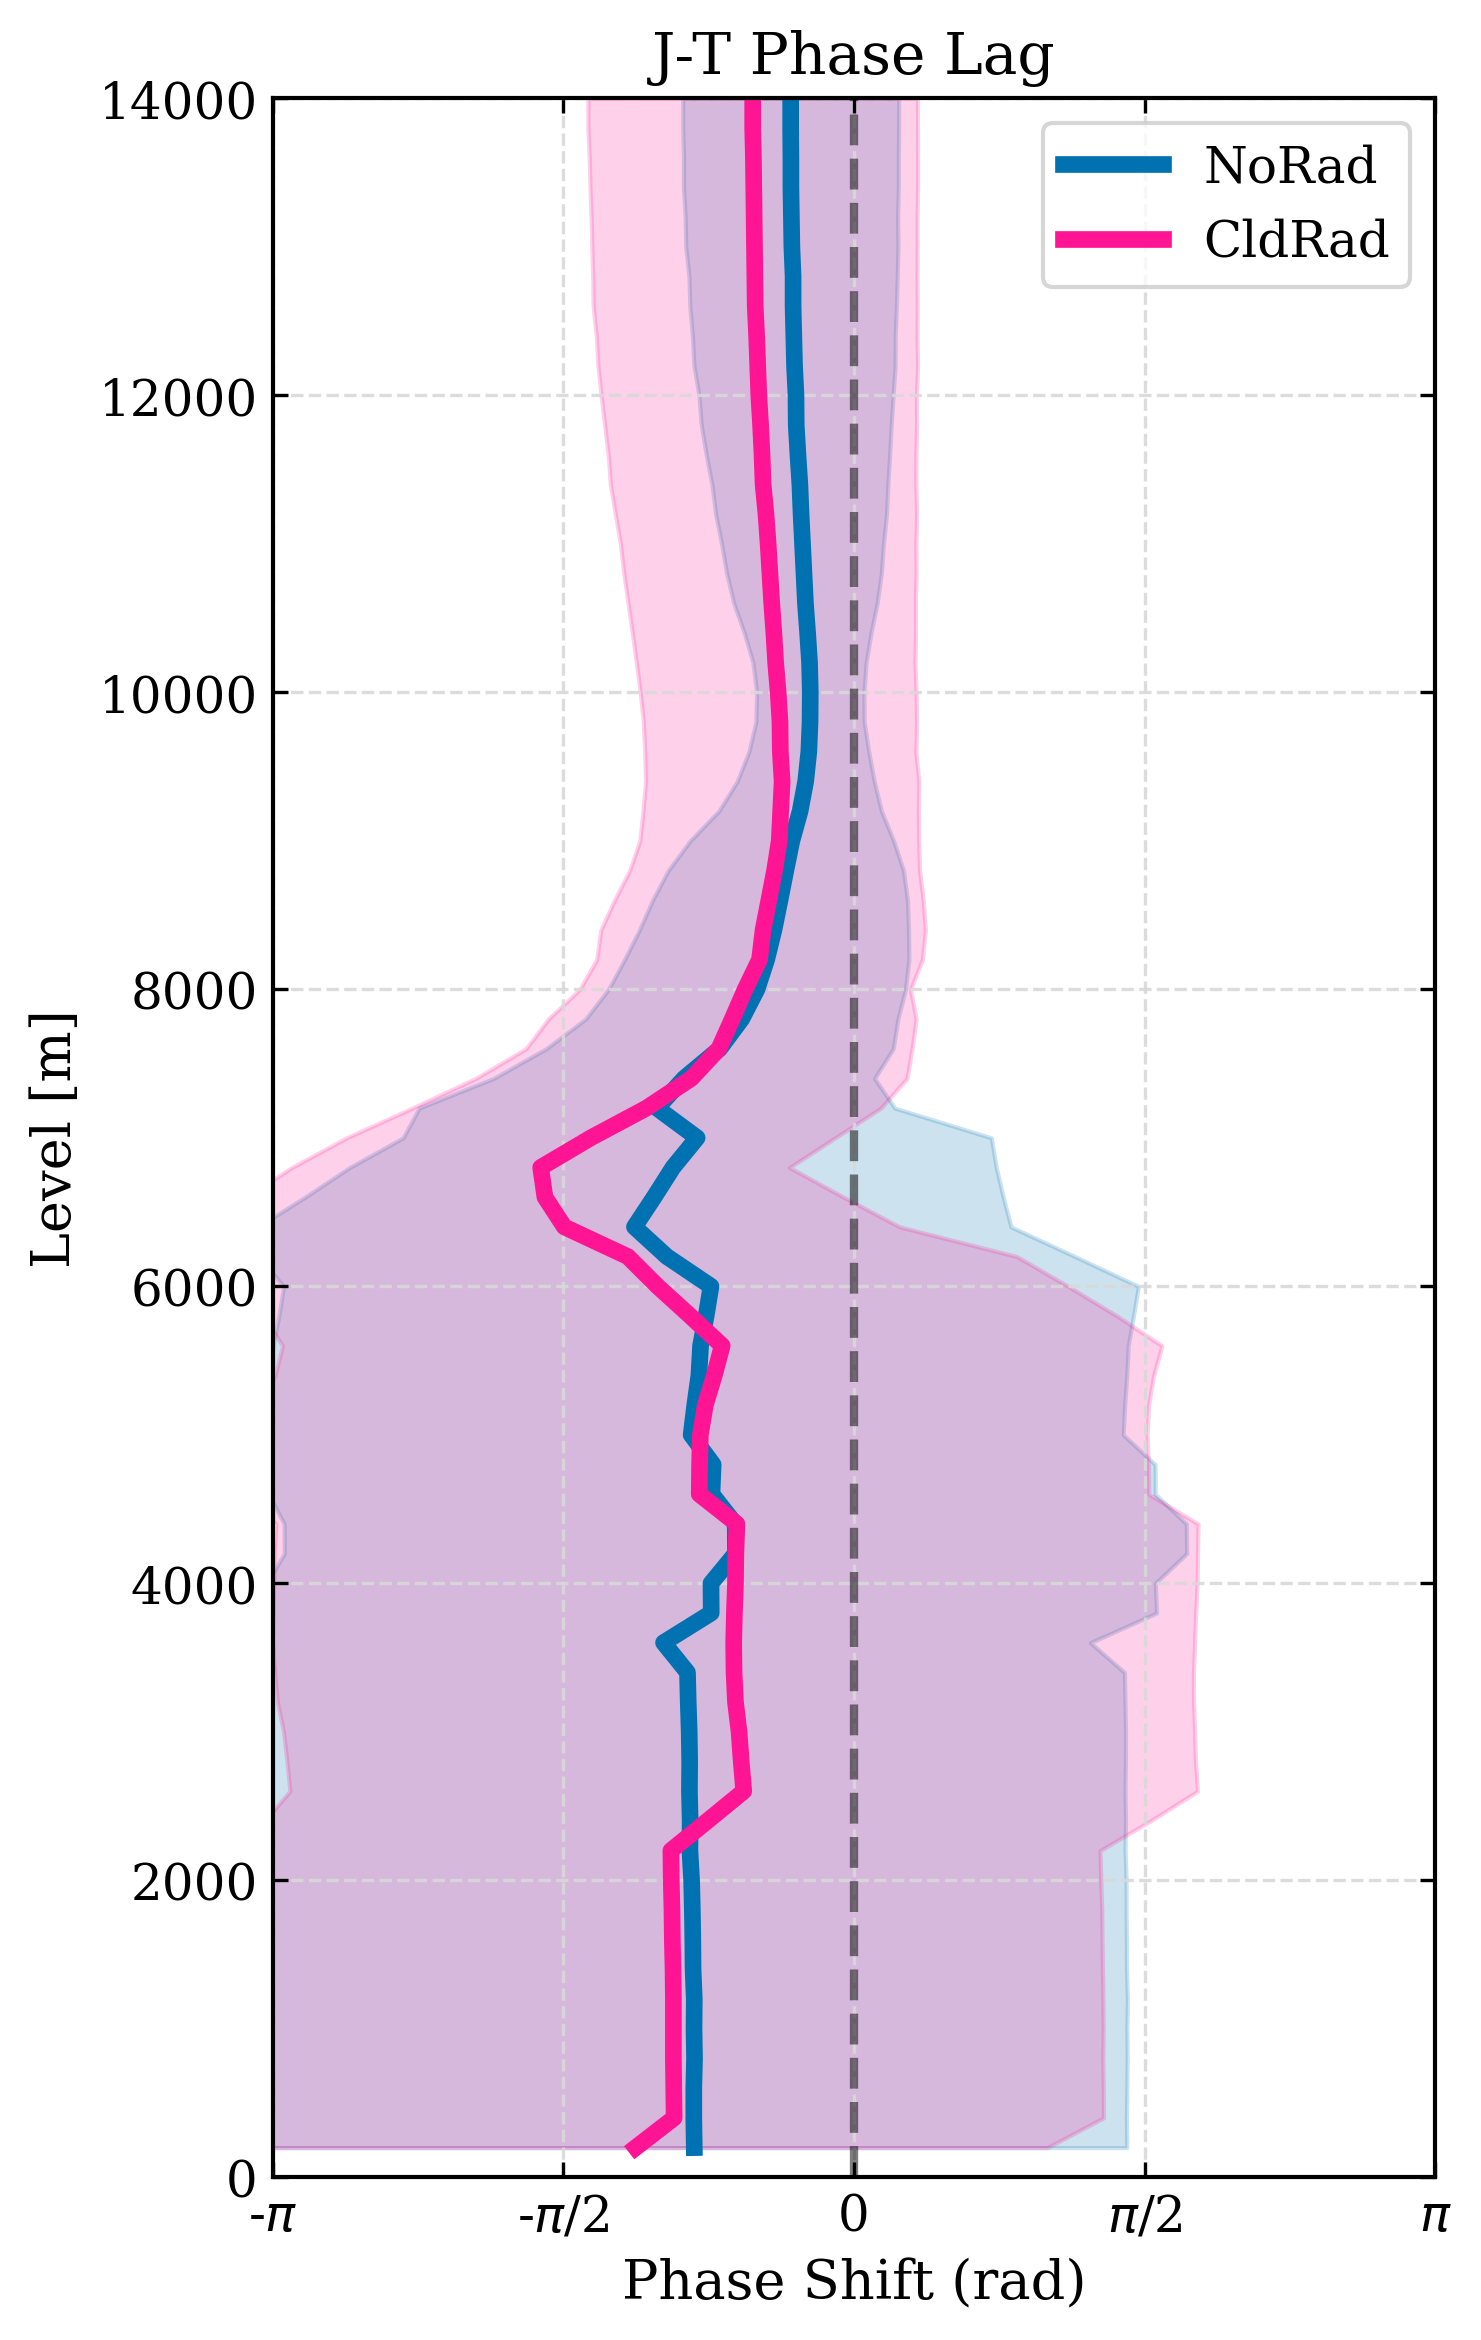
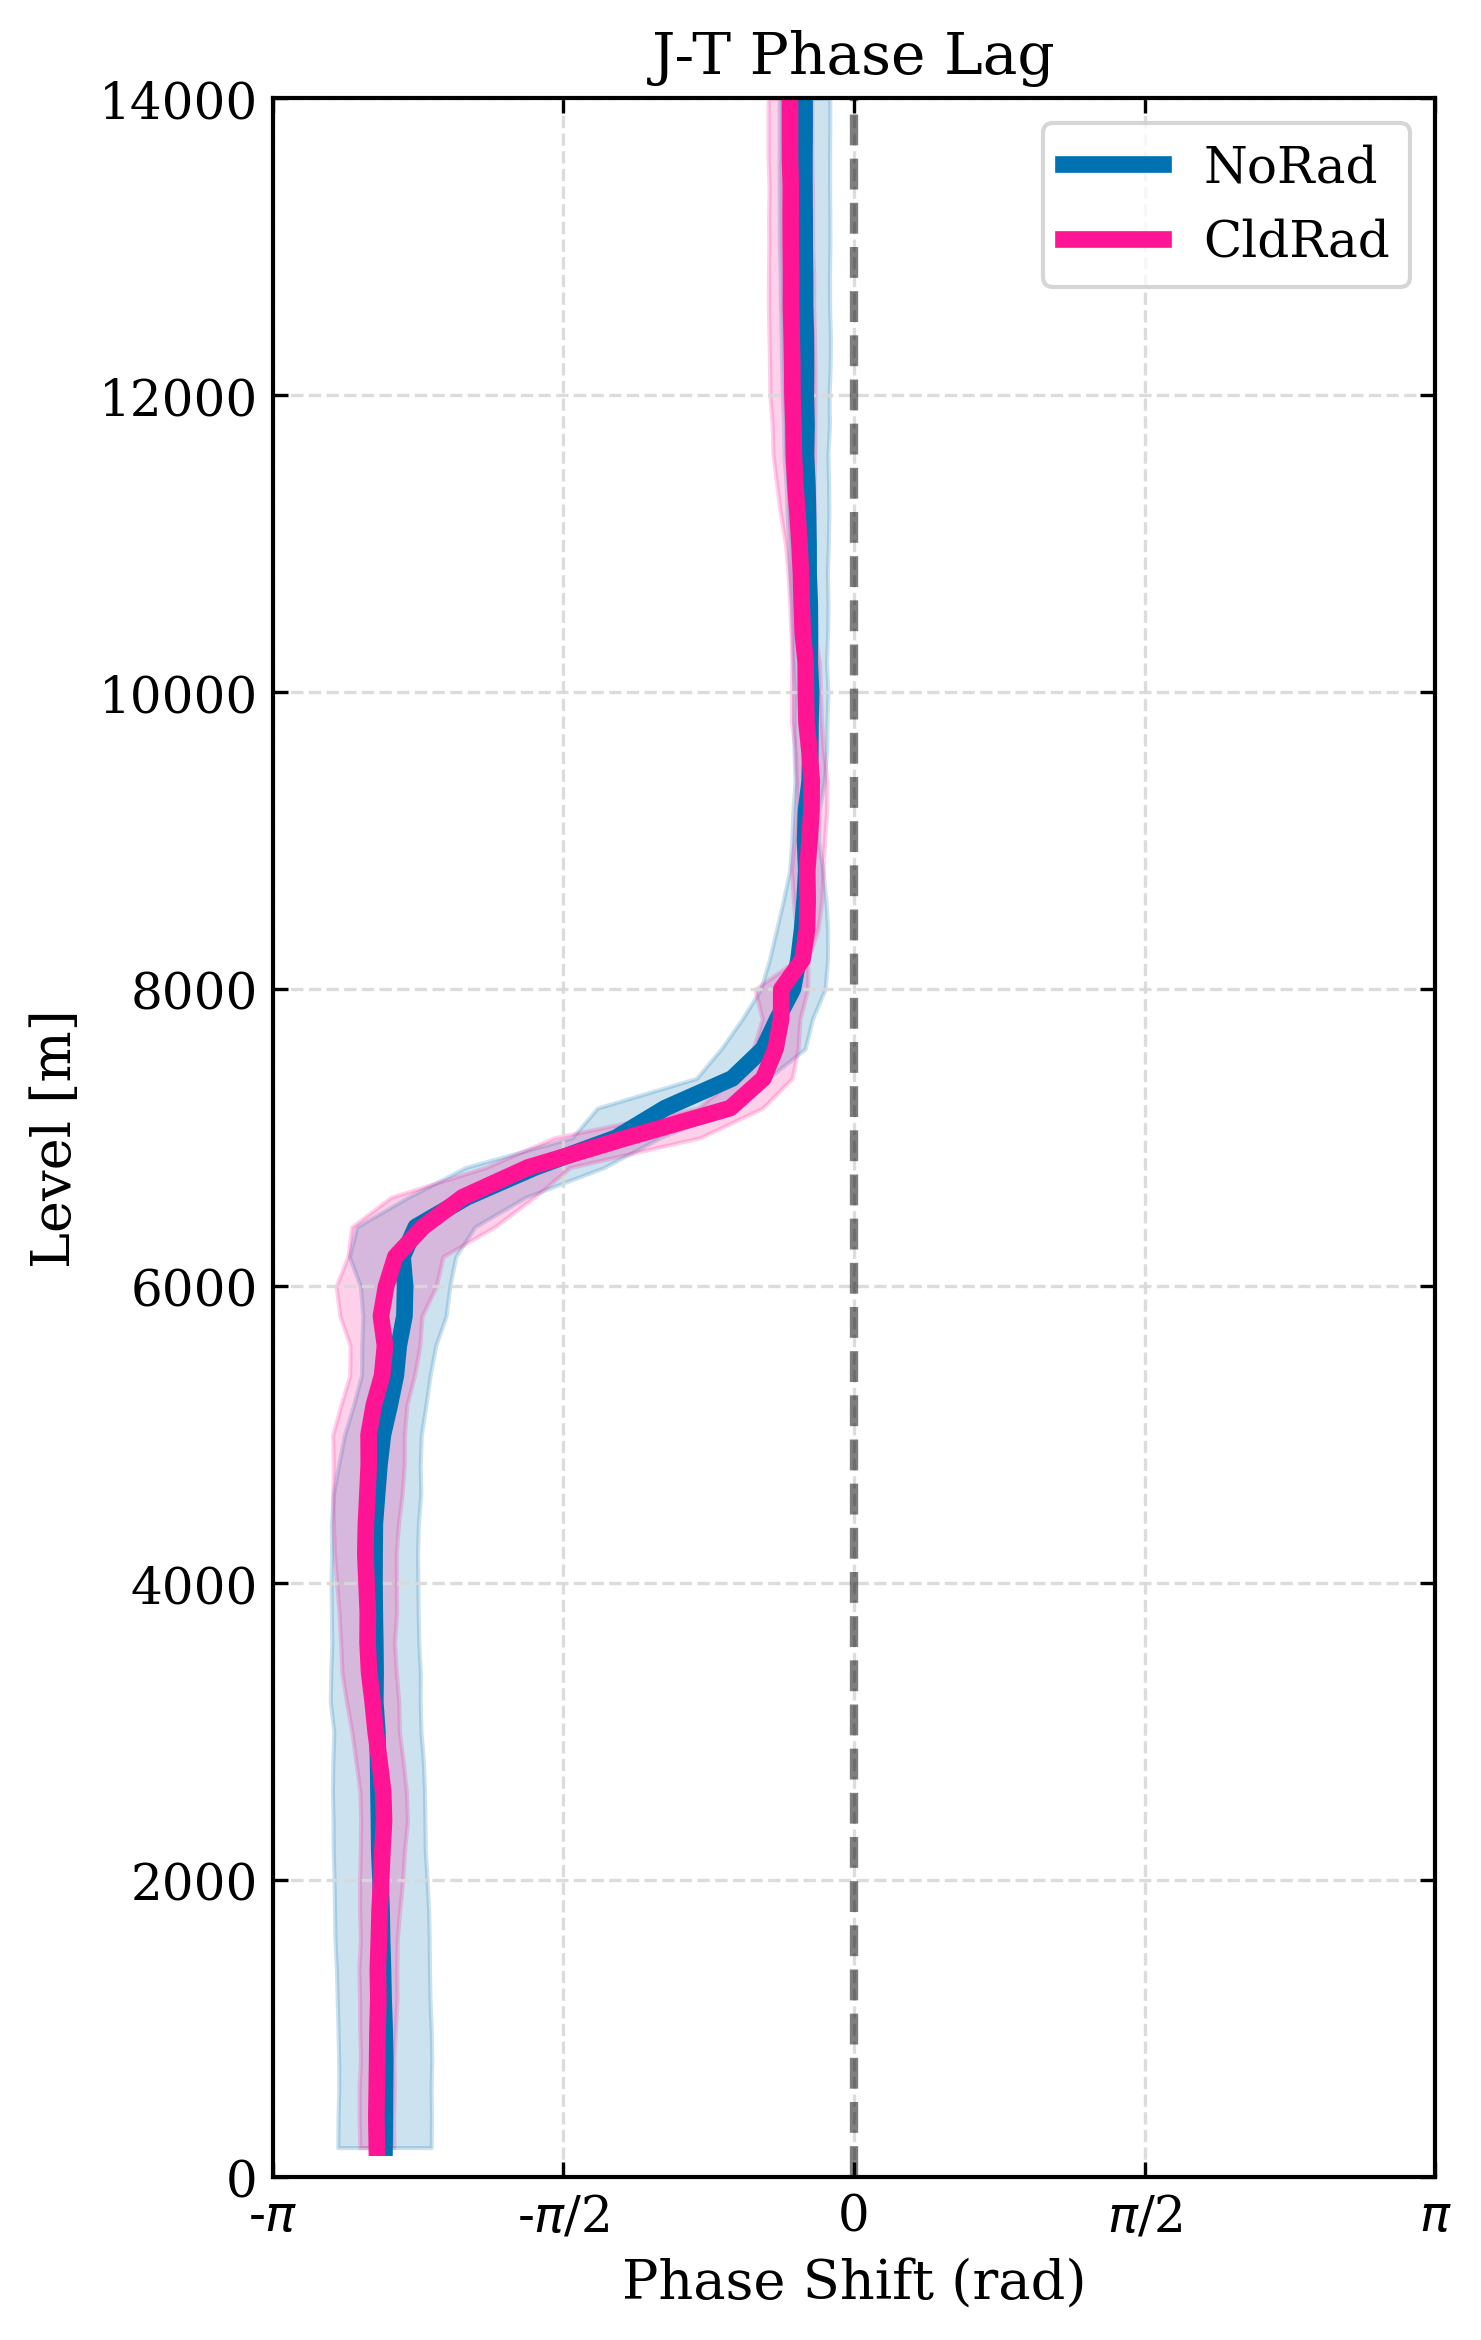
Fix: 20260420 Modifying phase calculation function

diff --git a/Comparison/NoRad_vs_CldRad/QwT_phase.py b/Comparison/NoRad_vs_CldRad/QwT_phase.py
@@ -6,6 +6,7 @@
 # ====================================================
 # Import package
 # ====================================================
+import os
 import h5py
 import numpy as np
 import pandas as pd
@@ -25,41 +26,68 @@ plt.style.use(["seaborn-v0_8-colorblind", str(style_path)])
 # Helper functions
 # ====================================================
 
-def phase_shifts(
-        field1: np.ndarray,
-        field2: np.ndarray,        
-) -> np.ndarray:
+def compute_ensemble_phase(field1, field2, avg_axes=(0, 1)):
+    """
+    Unifies phase detection and ensemble averaging.
     
-	# dimension check
-	if field1.shape != field2.shape:
-		raise ValueError("Input signals must have  the same shape.")
-
-	# shapes
-	nz, nphase = field1.shape
-
-	# calculate phase difference
-	d_phase: np.ndarray = 2*np.pi / (nphase-1)
-
-	# Calculate lages
-	lags: np.ndarray = correlation_lags(nphase, nphase, mode="full")
-
-	phase_shift: np.ndarray = np.zeros(nz)
-
-	for i in range(nz):
-		# caluclate cross-correlation
-		corr: np.ndarray = correlate(field1[i], field2[i], mode="full")
-
-		# Find index of maximum correlation
-		max_corr_idx: int = np.nanargmax(corr).astype(int)
-
-		# convert index shift to phase shift
-		shift = lags[max_corr_idx] * d_phase
-
-		# Wrap phase to [-pi, pi]
-		phase_shift[i] = (shift + np.pi) % (2 * np.pi) - np.pi
-	
-	return phase_shift
-
+    Parameters:
+    -----------
+    field1, field2 : np.ndarray
+        Input data with shape (n_members, n_days, nz, n_phase).
+    avg_axes : tuple
+        Axes to average over (default is ensemble and days).
+        
+    Returns:
+    --------
+    dict containing:
+        'mean_phase': The raw circular mean phase [-pi, pi].
+        'unwrapped_phase': The continuous phase profile for plotting.
+        'coherence': The R-value (0-1) indicating ensemble agreement.
+    """
+    
+    # 1. Dimensions
+    # Assumes last axis is the phase axis (n_phase)
+    nz = field1.shape[-2]
+    nphase = field1.shape[-1]
+    d_phase = 2 * np.pi / nphase # Frequency spacing
+    
+    # 2. Calculate Cross-Correlation via FFT (more efficient for periodic phase)
+    # We compute the correlation for all members, days, and levels at once
+    f1 = np.fft.fft(field1, axis=-1)
+    f2 = np.fft.fft(field2, axis=-1)
+    
+    # Cross-power spectrum
+    cross_power = f1 * np.conj(f2)
+    cross_corr = np.fft.ifft(cross_power, axis=-1).real
+    
+    # 3. Find the peak lag for every single realization
+    # max_lags shape: (n_members, n_days, nz)
+    max_lag_indices = np.argmax(cross_corr, axis=-1)
+    
+    # Adjust lags to center them (mapping indices to -nphase/2 : nphase/2)
+    lags = np.where(max_lag_indices > nphase//2, 
+                    max_lag_indices - nphase, 
+                    max_lag_indices)
+    
+    phase_shifts = lags * d_phase
+    
+    # 4. Vector Averaging (Circular Statistics)
+    # Convert phase shifts to complex unit vectors
+    vectors = np.exp(1j * phase_shifts)
+    
+    # Average over the requested axes (e.g., members and days)
+    mean_vector = np.mean(vectors, axis=avg_axes)
+    
+    # 5. Extract Results
+    mean_phase = np.angle(mean_vector)
+    coherence = np.abs(mean_vector)
+    unwrapped_phase = np.unwrap(mean_phase)
+    
+    return {
+        "mean_phase": mean_phase,
+        "unwrapped_phase": unwrapped_phase,
+        "coherence": coherence
+    }
 # ====================================================
 # Load data
 # ====================================================
@@ -76,44 +104,64 @@ NoState = {}
 CldState = {}
 
 for EnsName in NoEnsList:
-	NoState[EnsName.split("/")[-1]] = {}
+	NoState[EnsName.split("/")[-1]] = {"w": {}, "T": {}, "J": {}}
 	
 	for file in glob(EnsName+"/*.csv"):
-		NoState[EnsName.split("/")[-1]][file.split("/")[-1].split(".")[0]] = np.array(pd.read_csv(file))[:, 1:]
+		sub_key = file.split("/")[-1].split(".")[0]
+
+		if sub_key.startswith("w"):
+			NoState[EnsName.split("/")[-1]]["w"][f"{sub_key.split("_")[-1][3:]}"] = np.array(pd.read_csv(file))[:, 1:]
+		elif sub_key.startswith("J"):
+			NoState[EnsName.split("/")[-1]]["J"][f"{sub_key.split("_")[-1][3:]}"] = np.array(pd.read_csv(file))[:, 1:]
+		elif sub_key.startswith("T"):
+			NoState[EnsName.split("/")[-1]]["T"][f"{sub_key.split("_")[-1][3:]}"] = np.array(pd.read_csv(file))[:, 1:]
+		else:
+			continue
 	
 for EnsName in CldEnsList:
-	CldState[EnsName.split("/")[-1]] = {}
+	CldState[EnsName.split("/")[-1]] = {"w": {}, "T": {}, "J": {}}
 	
 	for file in glob(EnsName+"/*.csv"):
-		CldState[EnsName.split("/")[-1]][file.split("/")[-1].split(".")[0]] = np.array(pd.read_csv(file))[:, 1:]
-	
+		sub_key = file.split("/")[-1].split(".")[0]
+
+		if sub_key.startswith("w"):
+			CldState[EnsName.split("/")[-1]]["w"][f"{sub_key.split("_")[-1][3:]}"] = np.array(pd.read_csv(file))[:, 1:]
+		elif sub_key.startswith("J"):
+			CldState[EnsName.split("/")[-1]]["J"][f"{sub_key.split("_")[-1][3:]}"] = np.array(pd.read_csv(file))[:, 1:]
+		elif sub_key.startswith("T"):
+			CldState[EnsName.split("/")[-1]]["T"][f"{sub_key.split("_")[-1][3:]}"] = np.array(pd.read_csv(file))[:, 1:]
+		else:
+			continue
 # ====================================================
 # Collecting profile of different ensemble and time
 # ====================================================
 
-# pre-allocate the list 
-NoJ: list = []; CldJ: list = []
-NoT: list = []; CldT: list = []
-Now: list = []; Cldw: list = []
+def collect_ensemble_data(state_dict):
+    """
+    Collects dictionary-based state data into 4D numpy arrays.
+    Shape: (n_members, n_days, nz, n_phase)
+    """
+    all_w, all_T, all_J = [], [], []
+    
+    # Ensure consistent order of ensembles and days
+    for ens_name in sorted(state_dict.keys()):
+        ens_val = state_dict[ens_name]
+        
+        # Assume 'w', 'T', 'J' have the same day keys
+        day_keys = sorted(ens_val['w'].keys(), key=int)
+        
+        all_w.append(np.array([ens_val['w'][d] for d in day_keys]))
+        all_T.append(np.array([ens_val['T'][d] for d in day_keys]))
+        all_J.append(np.array([ens_val['J'][d] for d in day_keys]))
+        
+    return np.array(all_w), np.array(all_T), np.array(all_J)
 
-# for loop for saving
-for state in NoState.values():
-	for key, val in state.items():
-		if key.startswith("w"):
-			Now.append(val)
-		elif key.startswith("T"):
-			NoT.append(val)
-		elif key.startswith("J"):
-			NoJ.append(val)
+# Organize NoRad and CldRad data
+Now, NoT, NoJ = collect_ensemble_data(NoState)
+Cldw, CldT, CldJ = collect_ensemble_data(CldState)
 
-for state in CldState.values():
-	for key, val in state.items():
-		if key.startswith("w"):
-			Cldw.append(val)
-		elif key.startswith("T"):
-			CldT.append(val)
-		elif key.startswith("J"):
-			CldJ.append(val)
+print(f"NoRad shapes: w={Now.shape}, T={NoT.shape}, J={NoJ.shape}")
+print(f"CldRad shapes: w={Cldw.shape}, T={CldT.shape}, J={CldJ.shape}")
 
 # ====================================================
 # Calculate phase lag beween signals
@@ -121,25 +169,28 @@ for state in CldState.values():
 No_QT: list = []; Cld_QT: list = []
 No_wT: list = []; Cld_wT: list = []
 
-for i in range(len(NoJ)):
-	No_QT.append(phase_shifts(NoJ[i], NoT[i]))
-	No_wT.append(phase_shifts(Now[i], NoT[i]))
+# NoRad ensemble
+for i in range(NoJ.shape[0]):
+	res_QT = compute_ensemble_phase(NoJ[i], NoT[i], avg_axes=(0,))
+	res_wT = compute_ensemble_phase(Now[i], NoT[i], avg_axes=(0,))
+	No_QT.append(res_QT["mean_phase"])
+	No_wT.append(res_wT["mean_phase"])
 
+# CldRad ensemble
+for i in range(CldJ.shape[0]):
+	res_QT = compute_ensemble_phase(CldJ[i], CldT[i], avg_axes=(0,))
+	res_wT = compute_ensemble_phase(Cldw[i], CldT[i], avg_axes=(0,))
+	Cld_QT.append(res_QT["mean_phase"])
+	Cld_wT.append(res_wT["mean_phase"])
 
-for i in range(len(CldJ)):
-	Cld_QT.append(phase_shifts(CldJ[i], CldT[i]))
-	Cld_wT.append(phase_shifts(Cldw[i], CldT[i]))
-plt.plot(phase_shifts(CldJ[0], CldT[0])[1:])
-plt.savefig("test.png")
-plt.close()
-
-plt.plot()
 # convert from list to array
 No_QT_arr: np.ndarray = np.array(No_QT)
 No_wT_arr: np.ndarray = np.array(No_wT)
-
+print("No_QT_arr shape: ", No_QT_arr.shape)
 Cld_QT_arr: np.ndarray = np.array(Cld_QT)
 Cld_wT_arr: np.ndarray = np.array(Cld_wT)
+
+# Calculate
 
 # Calculate mean and standard deviation
 No_QT_mean: np.ndarray = No_QT_arr.mean(axis=0)
@@ -200,4 +251,19 @@ ax.set_ylabel("Level [m]")
 ax.legend()
 
 plt.savefig("/home/b11209013/Kuang2008_v0.3.0_Analysis/Figure/NoRad_vs_CldRad/QT_phase.png", dpi=300, bbox_inches="tight")
-plt.show()
+plt.close()
+
+# plot Q-T phase relation of all samples
+PhasePath = "/home/b11209013/Kuang2008_v0.3.0_Analysis/Figure/NoRad_vs_CldRad/NoRad/QTPhase/"
+
+os.makedirs(PhasePath, exist_ok=True)
+
+for i in range(No_QT_arr.shape[0]):
+	print(f"Start sample {i+1}")
+	fig, ax = plt.subplots(1, 1, figsize=(6, 9))
+
+	ax.plot(No_QT_arr[i, 1:], z, label=f"Sample {i+1}")
+
+	ax.set_ylim(0, 14000)
+	plt.savefig(PhasePath+f"Sample{i+1}.png", dpi=300, bbox_inches="tight")
+	plt.close(fig)
